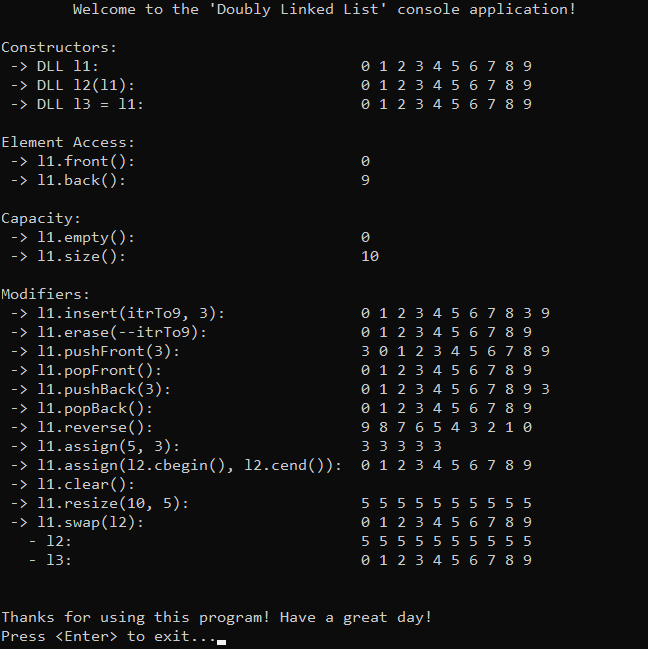
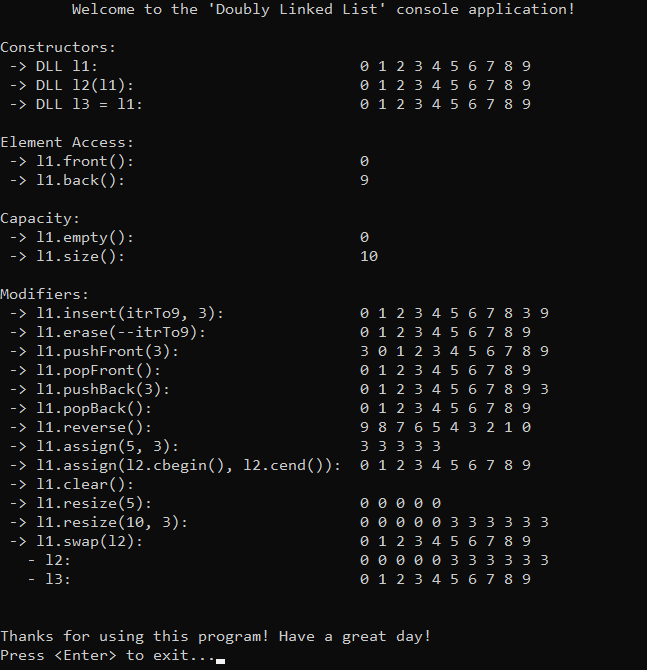
Upd 'Lists': modify resize() to use also value by default.

diff --git a/DataStructures/LinkedList/CircularLinkedList/Source/Main.cpp b/DataStructures/LinkedList/CircularLinkedList/Source/Main.cpp
@@ -75,9 +75,11 @@ int main() {
 	std::cout << " -> l1.clear(): \t\t\t";
 	l1.clear();
 	printList(l1);
-	std::cout << " -> l1.resize(10, 5): \t\t\t";
-	l1.resize(10, 5);
+	std::cout << " -> l1.resize(5): \t\t\t";
+	l1.resize(5);
 	printList(l1);
+	std::cout << " -> l1.resize(10, 3): \t\t\t";
+	l1.resize(10, 3);
 	std::cout << " -> l1.swap(l2): \t\t\t";
 	l1.swap(l2);
 	printList(l1);

diff --git a/DataStructures/LinkedList/DoublyLinkedList/Source/Main.cpp b/DataStructures/LinkedList/DoublyLinkedList/Source/Main.cpp
@@ -82,8 +82,11 @@ int main() {
 	std::cout << " -> l1.clear(): \t\t\t";
 	l1.clear();
 	printList(l1);
-	std::cout << " -> l1.resize(10, 5): \t\t\t";
-	l1.resize(10, 5);
+	std::cout << " -> l1.resize(5): \t\t\t";
+	l1.resize(5);
+	printList(l1);
+	std::cout << " -> l1.resize(10, 3): \t\t\t";
+	l1.resize(10, 3);
 	printList(l1);
 	std::cout << " -> l1.swap(l2): \t\t\t";
 	l1.swap(l2);

diff --git a/DataStructures/LinkedList/SinglyLinkedList/Source/Main.cpp b/DataStructures/LinkedList/SinglyLinkedList/Source/Main.cpp
@@ -75,8 +75,11 @@ int main() {
 	std::cout << " -> l1.clear(): \t\t\t";
 	l1.clear();
 	printList(l1);
-	std::cout << " -> l1.resize(10, 5): \t\t\t";
-	l1.resize(10, 5);
+	std::cout << " -> l1.resize(5): \t\t\t";
+	l1.resize(5);
+	printList(l1);
+	std::cout << " -> l1.resize(10, 3): \t\t\t";
+	l1.resize(10, 3);
 	printList(l1);
 	std::cout << " -> l1.swap(l2): \t\t\t";
 	l1.swap(l2);

diff --git a/DataStructures/LinkedList/CircularLinkedList/Include/CircularLinkedList.h b/DataStructures/LinkedList/CircularLinkedList/Include/CircularLinkedList.h
@@ -61,7 +61,7 @@ public:
 	void assign(int size, const int& data);
 	void assign(const_iterator first, const_iterator last);
 	void clear();
-	void resize(int size, const int& data);
+	void resize(int size, const int& data = 0);
 	void swap(CLL& other);
 };
 

diff --git a/DataStructures/LinkedList/DoublyLinkedList/Include/DoublyLinkedList.h b/DataStructures/LinkedList/DoublyLinkedList/Include/DoublyLinkedList.h
@@ -66,7 +66,7 @@ public:
 	void assign(int size, const int& data);
 	void assign(const_iterator first, const_iterator last);
 	void clear();
-	void resize(int size, const int& data);
+	void resize(int size, const int& data = 0);
 	void swap(DLL& other);
 };
 

diff --git a/DataStructures/LinkedList/SinglyLinkedList/Include/SinglyLinkedList.h b/DataStructures/LinkedList/SinglyLinkedList/Include/SinglyLinkedList.h
@@ -61,7 +61,7 @@ public:
 	void assign(int size, const int& data);
 	void assign(const_iterator first, const_iterator last);
 	void clear();
-	void resize(int size, const int& data);
+	void resize(int size, const int& data = 0);
 	void swap(SLL& other);
 };
 

diff --git a/DataStructures/LinkedList/SinglyLinkedList/SinglyLinkedList.md b/DataStructures/LinkedList/SinglyLinkedList/SinglyLinkedList.md
@@ -92,7 +92,6 @@ To prioritize simplicity and emphasize data structure itself, several design dec
 - Omitting certain optimizations to the container.
 
 
-
 ## Container Implementation
 The container is implemented within the `SLL` class, which is declared in [SinglyLinkedList.h](https://github.com/vezzolter/DSA/blob/split-list/DataStructures/LinkedList/SinglyLinkedList/Include/SinglyLinkedList.h) header file and defined in [SinglyLinkedList.cpp](https://github.com/vezzolter/DSA/blob/split-list/DataStructures/LinkedList/SinglyLinkedList/Source/SinglyLinkedList.cpp) source file. This approach is adopted to ensure encapsulation, modularity and compilation efficiency. To see the container's functionality in action, you can examine the `main()` function located in the [Main.cpp](https://github.com/vezzolter/DSA/blob/split-list/DataStructures/LinkedList/SinglyLinkedList/Source/Main.cpp) file. The full implementation can be found in the corresponding files, while the class declaration below offers a quick overview:
 
@@ -150,7 +149,7 @@ public:
 	void assign(int size, const int& data);
 	void assign(const_iterator first, const_iterator last);
 	void clear();
-	void resize(int size, const int& data);
+	void resize(int size, const int& data = 0);
 	void swap(SLL& other);
 };
 ```

diff --git a/DataStructures/LinkedList/DoublyLinkedList/DoublyLinkedList.md b/DataStructures/LinkedList/DoublyLinkedList/DoublyLinkedList.md
@@ -158,7 +158,7 @@ public:
 	void assign(int size, const int& data);
 	void assign(const_iterator first, const_iterator last);
 	void clear();
-	void resize(int size, const int& data);
+	void resize(int size, const int& data = 0);
 	void swap(DLL& other);
 };
 ```
